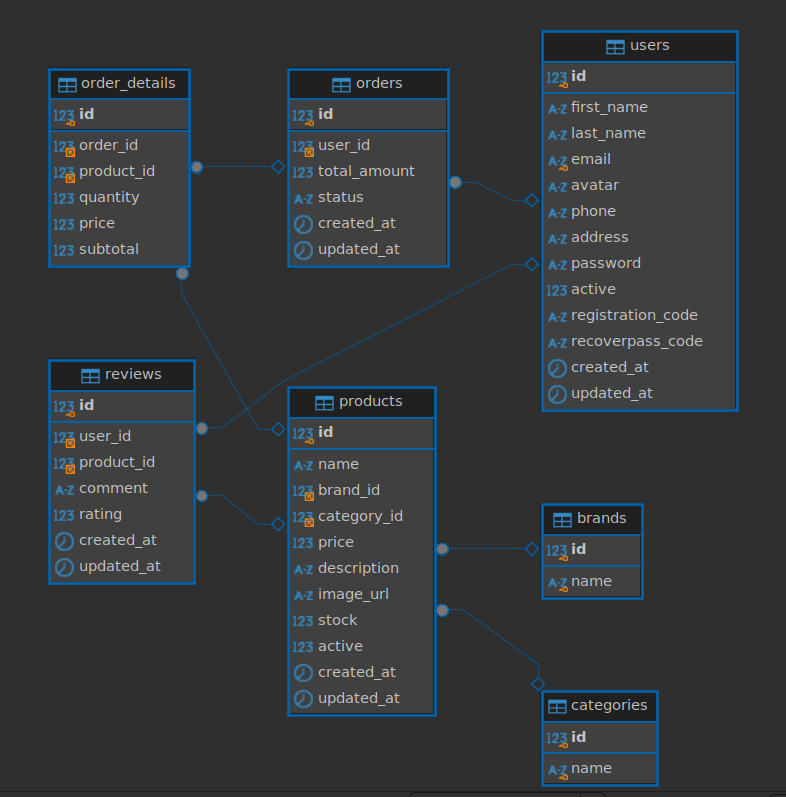
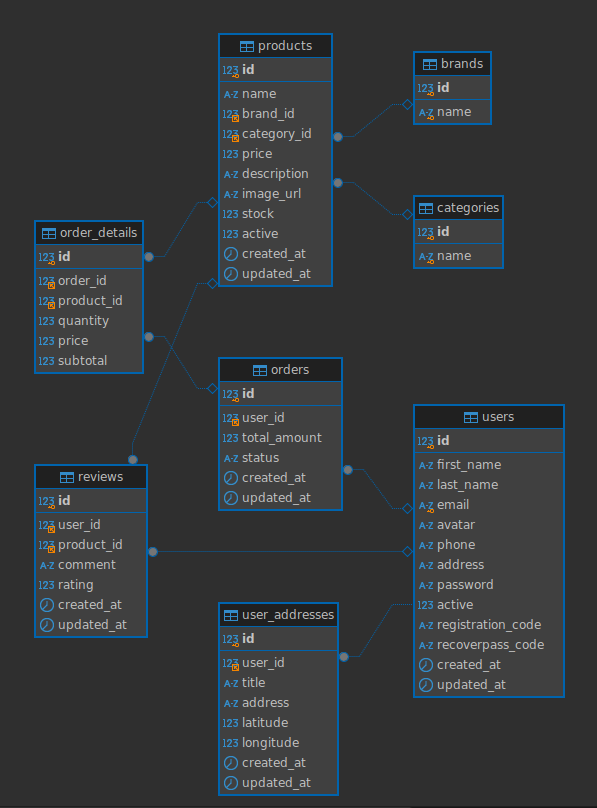
Actualización de la base de datos v1, se agrega una nueva tabla para múltiples direcciones de los usuarios.

diff --git a/Documentación/database/v1/README.md b/Documentación/database/v1/README.md
@@ -1,7 +1,7 @@
 # Documentación de la base de datos
 
 ## Descripción general
-La base de datos `techstore_db` está diseñada para gestionar una tienda en línea de productos tecnológicos. Incluye funcionalidades para manejar usuarios, productos, categorías, marcas, pedidos y reseñas.
+La base de datos `techstore_db` está diseñada para gestionar una tienda en línea de productos tecnológicos. Incluye funcionalidades para manejar usuarios, productos, categorías, marcas, pedidos, reseñas y direcciones almacenadas por los usuarios.
 
 ## Estructura de la base de datos
 
@@ -23,6 +23,20 @@ Almacena información de los usuarios registrados en la tienda.
 | recoverpass_code | VARCHAR(10) | Código para recuperar contraseña |
 | created_at | TIMESTAMP | Fecha de creación del registro |
 | updated_at | TIMESTAMP | Fecha de última actualización |
+
+### **Tabla: user_addresses**  
+Almacena las direcciones adicionales de los usuarios.
+
+| Columna     | Tipo            | Descripción                                                 |
+|-------------|-----------------|-------------------------------------------------------------|
+| id          | BIGINT          | Clave primaria, autoincremental                             |
+| user_id     | BIGINT          | ID del usuario (clave foránea a `users`)                    |
+| title       | VARCHAR(50)     | Título descriptivo de la dirección (ej.: 'Casa', 'Trabajo') |
+| address     | VARCHAR(255)    | Dirección detallada                                         |
+| latitude    | DECIMAL(9,6)    | Latitud para geolocalización                                |
+| longitude   | DECIMAL(9,6)    | Longitud para geolocalización                               |
+| created_at  | TIMESTAMP       | Fecha de creación del registro                              |
+| updated_at  | TIMESTAMP       | Fecha de última actualización                               |
 
 ### Tabla: categories
 Contiene las categorías de productos.
@@ -100,6 +114,7 @@ Contiene las reseñas de los productos realizadas por los usuarios.
 2. `orders` tiene una clave foránea a `users` (user_id).
 3. `order_details` tiene claves foráneas a `orders` (order_id) y `products` (product_id).
 4. `reviews` tiene claves foráneas a `users` (user_id) y `products` (product_id).
+5. `user_addresses` tiene una clave foránea a `users` (user_id).
 
 ## Notas adicionales
 
@@ -108,3 +123,4 @@ Contiene las reseñas de los productos realizadas por los usuarios.
 - La tabla `orders` utiliza un ENUM para el estado del pedido, limitando los valores posibles.
 - La tabla `order_details` incluye un campo calculado `subtotal` basado en la cantidad y el precio.
 - La tabla `reviews` tiene una restricción UNIQUE para evitar múltiples reseñas del mismo usuario para el mismo producto.
+- `user_addresses` permite a los usuarios almacenar múltiples direcciones, con soporte para geolocalización mediante latitud y longitud.  
